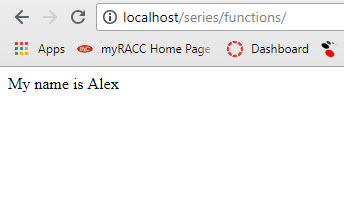
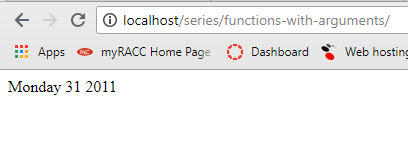
Add files via upload

Changed region(s): [[0.0, 0.0, 1.0, 0.4464], [0.0, 0.4762, 0.2907, 0.5655]]

diff --git a/series/functions-with-arguments/index.php b/series/functions-with-arguments/index.php
@@ -1,10 +1,9 @@
 <?php
 
-  function MyName(){
-    echo 'Alex';
+  function displayDate($day, $date, $year){
+    echo $day.' '.$date.' '.$year;
   }
 
-  echo 'My name is ';
-  MyName();
+  displayDate('Monday', 31, 2011);
 
 ?>
